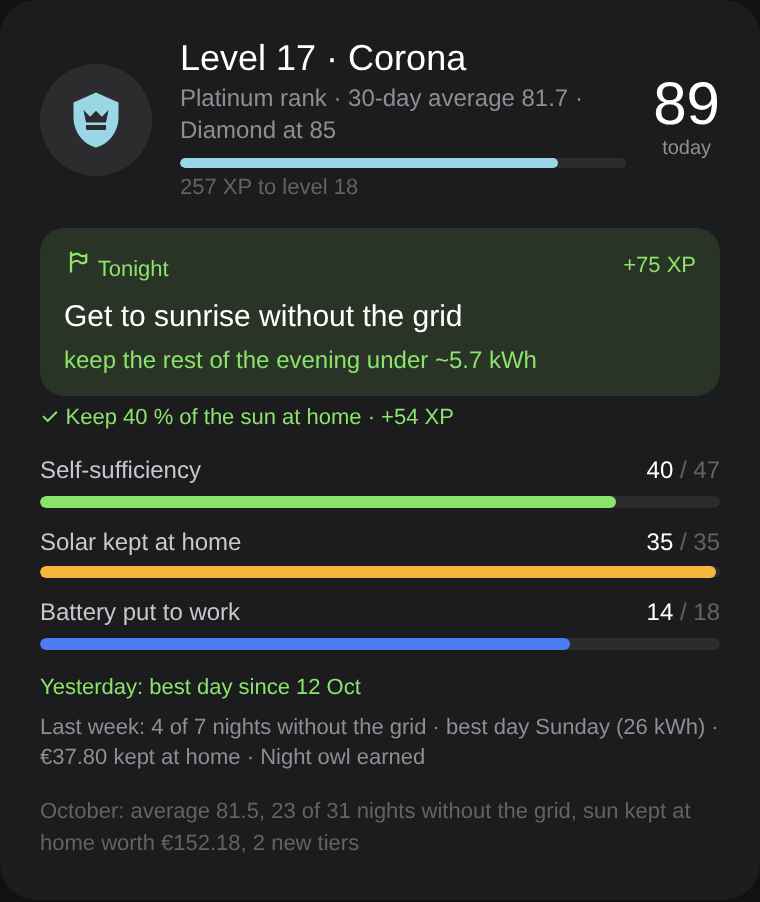
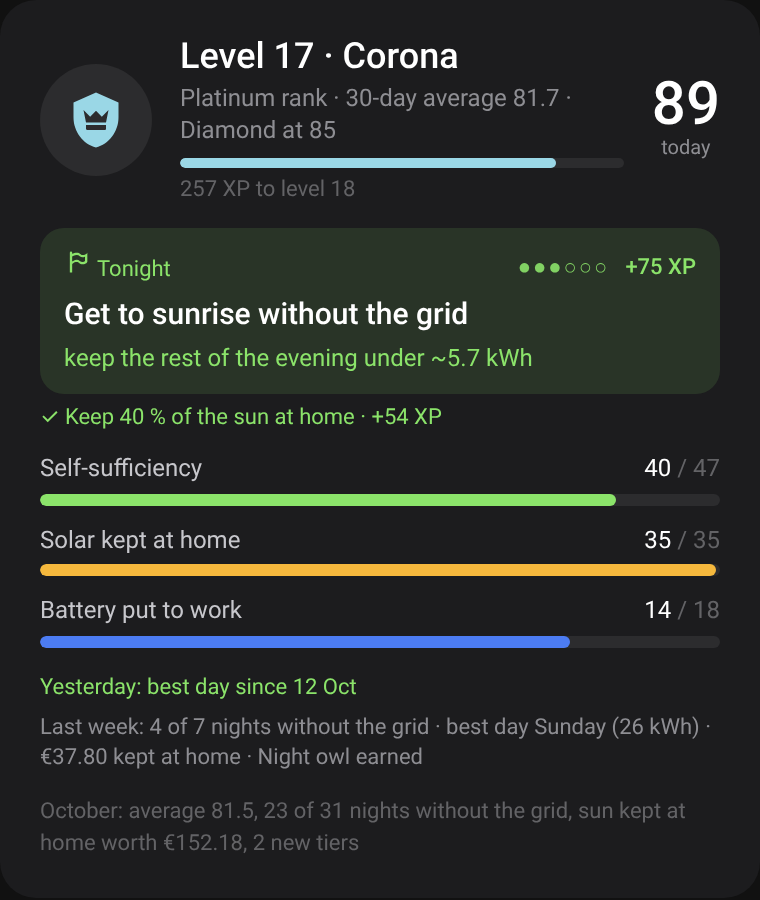
Document quest levels

diff --git a/docs/achievements.md b/docs/achievements.md
@@ -79,7 +79,9 @@ Facts are kept in the integration's store, about 1 kB a day.
 
 **Records.** Each with its date, the season's best, and how the latest day ranked among all your days.
 
-**Quests.** Each evening from 20:00, one quest for the next day; on Mondays, one for the week. Targets come from your own days with a similar forecast, set so about three in five would have met them. A borderline night ahead comes first: "Get to sunrise without the grid". Quests pay 25–100 XP by difficulty; missing one costs nothing.
+**Quests.** Each evening from 20:00, one quest for the next day; on Mondays, one for the week. Targets come from your own days with a similar forecast. A borderline night ahead comes first: "Get to sunrise without the grid". Quests pay 25–100 XP by difficulty; missing one costs nothing.
+
+**Quest level.** Quests follow how you are doing. The level runs from 1 to 6 and starts at 2. Each quest met raises it one step, each one missed lowers it one. Level 1 sets targets about two in three similar days would have met; each step aims five points lower, down to two in five at level 6. The week's quest asks half a night more per level above the start. The level is replayed from the judged quests, so it settles where you meet about half of them.
 
 **Recaps and moments.** Earning a tier, breaking a record, levelling up, completing a quest and closing a month fire `solar_energy_insights_achievement` with a title, a ready-made message and a line explaining it. The last two days of them are kept as moments, which the moments card shows for a day.
 

diff --git a/CHANGELOG.md b/CHANGELOG.md
@@ -2,6 +2,10 @@
 
 ## Unreleased
 
+### Added
+
+- Quests have a level, from 1 to 6. Each quest met makes the next ones a little harder and pay a little more; each one missed makes them easier. The quest shows its level, and the quest sensor has it as an attribute.
+
 ## [0.25.0] - 2026-11-20
 
 ### Changed
